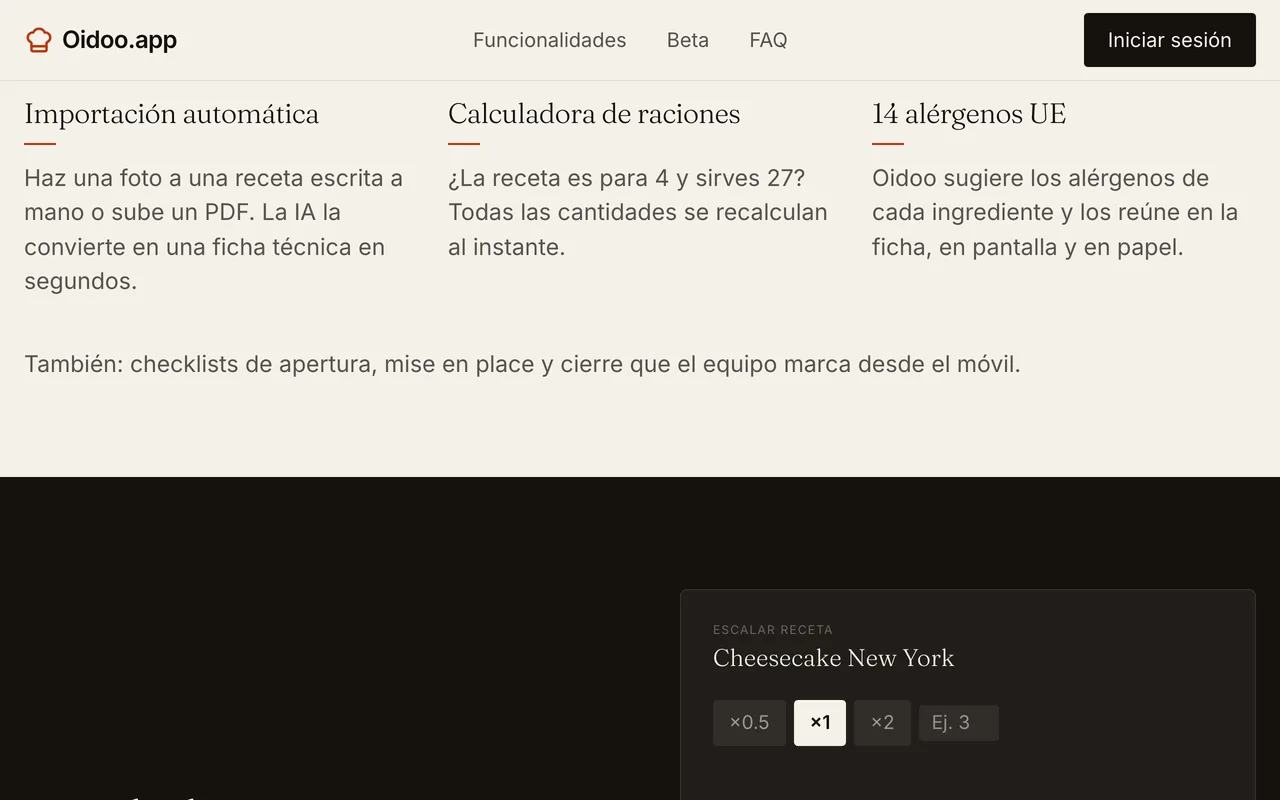
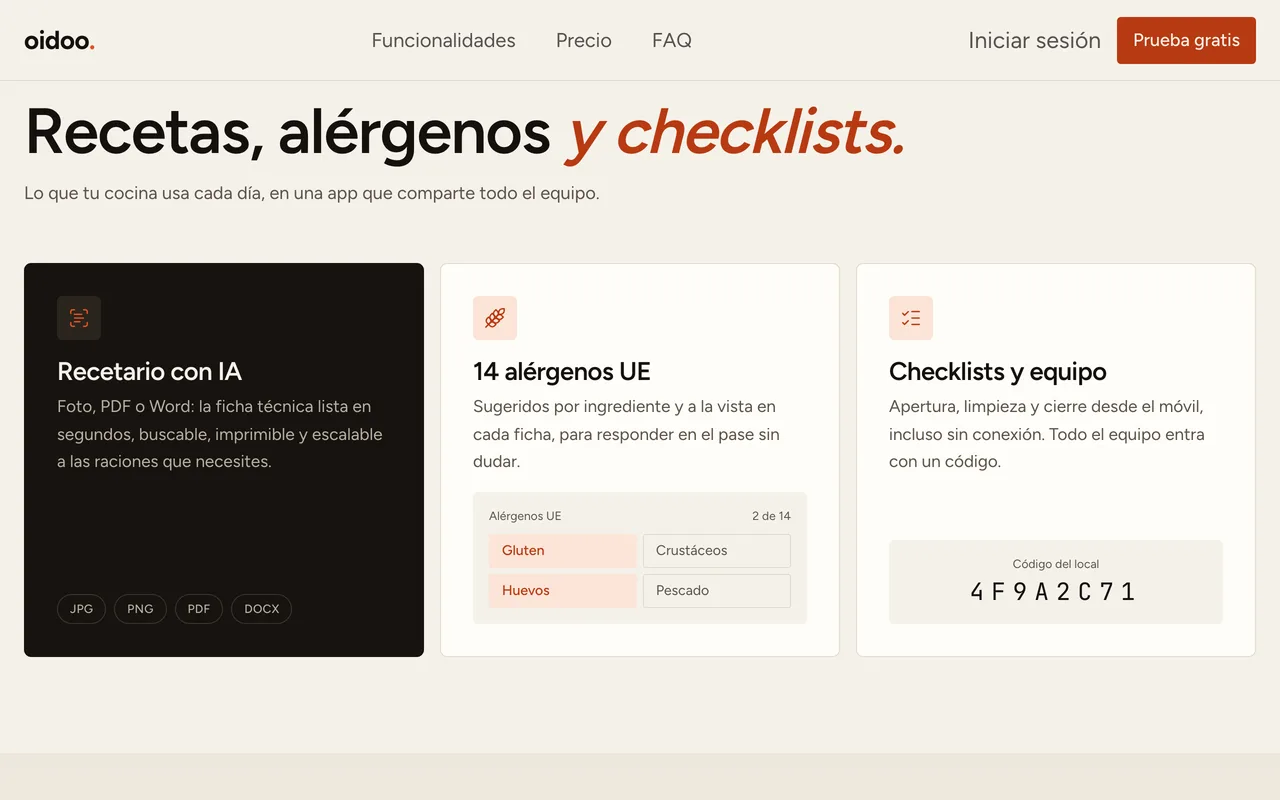
Refresh Oidoo screenshots; pricing replaces the beta shot
The landing was redesigned ("¿Lleva gluten? Ya lo sabes.") and its beta
section is gone, with a pricing section back in its place. Hero, features
and mobile shots recaptured; the gallery's third shot is now #precio.

diff --git a/src/components/Projects.tsx b/src/components/Projects.tsx
@@ -103,7 +103,7 @@ export default function Projects() {
       screenshot: "/oidoo-screenshot.webp",
       forWho: t.projects.oidoo_for,
       built: t.projects.oidoo_built,
-      gallery: [desktop("oidoo"), desktop("oidoo-funcionalidades"), desktop("oidoo-beta"), phone("oidoo-mobile")],
+      gallery: [desktop("oidoo"), desktop("oidoo-funcionalidades"), desktop("oidoo-precio"), phone("oidoo-mobile")],
     },
   ];
 
